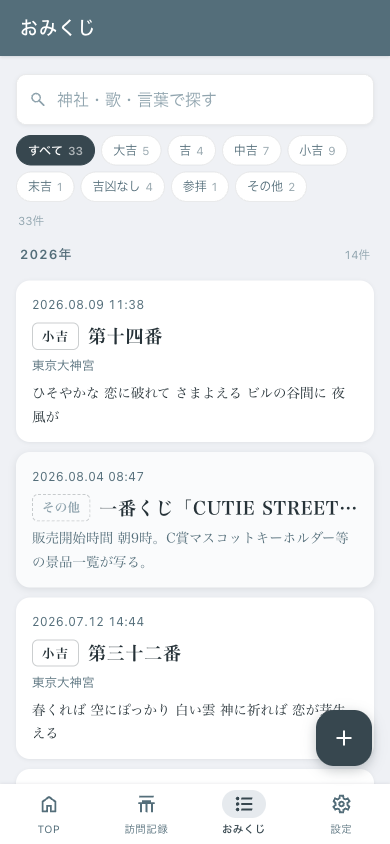
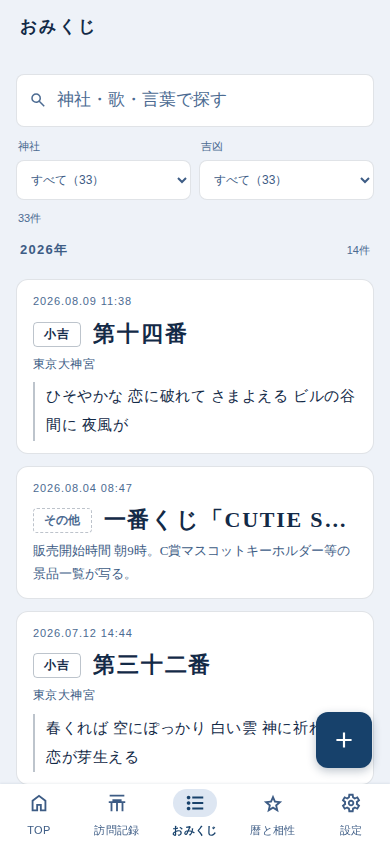
feat(omikuji): 一覧のタブ列を神社と吉凶の絞り込みに置き換える

diff --git a/omikuji/app/js/app.js b/omikuji/app/js/app.js
@@ -29,6 +29,8 @@ const $ = (id) => document.getElementById(id);
 const FILTER_VISIT = '参拝';
 const FILTER_OTHER = 'その他';
 const FILTER_NO_FORTUNE = '吉凶なし';
+/** 神社の記載がない記録をまとめる見出し。絞り込みの値としても使う。 */
+const UNKNOWN_SHRINE = '場所の記載なし';
 
 /** 書き起こし記録に重ねられる項目。日付を直したら「推定」の印も外す。 */
 const OVERRIDABLE = [
@@ -62,7 +64,8 @@ const dom = {
 
   list: $('list'), empty: $('empty'), emptyTitle: $('empty-title'),
   emptyBody: $('empty-body'), emptyReset: $('empty-reset'),
-  summary: $('summary'), search: $('search'), searchClear: $('search-clear'), chips: $('chips'),
+  summary: $('summary'), search: $('search'), searchClear: $('search-clear'),
+  filterShrine: $('filter-shrine'), filterFortune: $('filter-fortune'),
 
   detail: $('detail'), detailBody: $('detail-body'), detailClose: $('detail-close'),
   detailDelete: $('detail-delete'), detailEdit: $('detail-edit'), detailBarLabel: $('d-barlabel'),
@@ -162,7 +165,7 @@ function visibleEntries() {
   return allEntries().filter((e) => (
     matchesFilter(e, state.filter)
     && matchesQuery(e, state.query)
-    && (!state.shrine || (e.shrine || '場所の記載なし') === state.shrine)
+    && (!state.shrine || (e.shrine || UNKNOWN_SHRINE) === state.shrine)
   ));
 }
 
@@ -249,48 +252,63 @@ function countsOf(entries) {
   return c;
 }
 
-function renderChips() {
-  const entries = allEntries();
-  const counts = countsOf(entries);
+/** 神社ごとの件数。記載がないものは1つにまとめる。 */
+function shrineCountsOf(entries) {
+  const c = new Map();
+  entries.forEach((e) => {
+    const key = e.shrine || UNKNOWN_SHRINE;
+    c.set(key, (c.get(key) || 0) + 1);
+  });
+  return c;
+}
 
-  const keys = FORTUNE_ORDER.filter((f) => counts.has(f));
-  [FILTER_NO_FORTUNE, FILTER_VISIT, FILTER_OTHER].forEach((k) => { if (counts.has(k)) keys.push(k); });
+/**
+ * プルダウンの中身を組み直す。空文字を「すべて」に割り当て、state 側の null と対応させる。
+ * option は textContent で作る（本文と同じく innerHTML は使わない）。
+ */
+function fillSelect(select, current, allLabel, items) {
+  select.textContent = '';
 
-  dom.chips.textContent = '';
+  const all = document.createElement('option');
+  all.value = '';
+  all.textContent = allLabel;
+  select.appendChild(all);
 
-  if (state.shrine) {
-    const b = document.createElement('button');
-    b.type = 'button';
-    b.className = 'chip chip--shrine is-on';
-    b.textContent = state.shrine;
-    const x = document.createElement('span');
-    x.className = 'chip__x';
-    x.textContent = '✕';
-    b.appendChild(x);
-    b.setAttribute('aria-label', `${state.shrine}での絞り込みを外す`);
-    b.addEventListener('click', () => setState({ shrine: null }));
-    dom.chips.appendChild(b);
+  let found = false;
+  items.forEach(([value, count]) => {
+    const o = document.createElement('option');
+    o.value = value;
+    o.textContent = `${value}（${count}）`;
+    select.appendChild(o);
+    if (value === current) found = true;
+  });
+
+  // 絞り込んだまま最後の1件を消すと、選んでいた値が候補から消える。
+  // 黙って「すべて」に戻ると絞り込みが外れたことに気づけないので、0件として残す。
+  if (current && !found) {
+    const o = document.createElement('option');
+    o.value = current;
+    o.textContent = `${current}（0）`;
+    select.appendChild(o);
   }
 
-  const makeChip = (label, value, count) => {
-    const b = document.createElement('button');
-    b.type = 'button';
-    const on = state.filter === value;
-    b.className = 'chip' + (on ? ' is-on' : '');
-    b.setAttribute('aria-pressed', String(on));
-    b.textContent = label;
-    if (count != null) {
-      const n = document.createElement('span');
-      n.className = 'chip__n';
-      n.textContent = count;
-      b.appendChild(n);
-    }
-    b.addEventListener('click', () => setState({ filter: on ? null : value }));
-    return b;
-  };
+  select.value = current || '';
+  select.classList.toggle('is-on', Boolean(current));
+}
 
-  dom.chips.appendChild(makeChip('すべて', null, entries.length));
-  keys.forEach((k) => dom.chips.appendChild(makeChip(k, k, counts.get(k))));
+function renderFilters() {
+  const entries = allEntries();
+
+  // 多く行っている神社ほど選ぶ回数が多いので、件数の多い順に並べる。
+  const shrines = [...shrineCountsOf(entries).entries()]
+    .sort((a, b) => b[1] - a[1] || (a[0] < b[0] ? -1 : 1));
+  fillSelect(dom.filterShrine, state.shrine, `すべて（${entries.length}）`, shrines);
+
+  const counts = countsOf(entries);
+  const keys = FORTUNE_ORDER.filter((f) => counts.has(f));
+  [FILTER_NO_FORTUNE, FILTER_VISIT, FILTER_OTHER].forEach((k) => { if (counts.has(k)) keys.push(k); });
+  fillSelect(dom.filterFortune, state.filter, `すべて（${entries.length}）`,
+    keys.map((k) => [k, counts.get(k)]));
 }
 
 function renderList() {
@@ -435,7 +453,7 @@ function renderShrineSuggestions() {
 function render() {
   renderTop();
   renderVisits();
-  renderChips();
+  renderFilters();
   renderList();
   renderSettings();
   renderInstall();
@@ -455,7 +473,7 @@ function setBackgroundInert(on) {
 
 /** 訪問記録タブの各行からも、同じ寺社の一覧を開けるようにする。 */
 function shrineOf(entry) {
-  return entry.shrine || '場所の記載なし';
+  return entry.shrine || UNKNOWN_SHRINE;
 }
 
 // ---------- 詳細 ----------
@@ -1011,7 +1029,7 @@ function askDelete() {
   if (entry.type === TYPE_OMIKUJI) {
     ask({
       title: 'この記録をどうしますか',
-      body: `${formatDate(entry.date)}　${entry.shrine || '場所の記載なし'} のお参りの記録でもあります。`
+      body: `${formatDate(entry.date)}　${entry.shrine || UNKNOWN_SHRINE} のお参りの記録でもあります。`
         + `おみくじだけを消せば、お参りに行ったことは残ります。${wording.note}`,
       // builtin は配布ファイルを消せないため「隠す」だけ。文言でその差を出す
       payload: { id: entry.id },
@@ -1279,6 +1297,14 @@ function bind() {
   dom.emptyReset.addEventListener('click', () => {
     dom.search.value = '';
     setState({ query: '', filter: null, shrine: null });
+  });
+
+  // 神社と吉凶は別々に効かせる（両方選べば掛け合わせになる）
+  dom.filterShrine.addEventListener('change', () => {
+    setState({ shrine: dom.filterShrine.value || null });
+  });
+  dom.filterFortune.addEventListener('change', () => {
+    setState({ filter: dom.filterFortune.value || null });
   });
 
   dom.visitSearch.addEventListener('input', (e) => setState({ visitQuery: e.target.value.trim() }));

diff --git a/omikuji/app/styles.css b/omikuji/app/styles.css
@@ -529,23 +529,29 @@ button.cal__day:hover { background: rgba(23, 65, 107, 0.07); }
 }
 .search__clear svg { width: 100%; height: 100%; }
 
-/* 6-25 チップ。横スクロールにすると後ろのチップに気づけないので折り返す */
-.chips { display: flex; flex-wrap: wrap; gap: var(--space-2); margin-top: 10px; }
-.chip {
-  flex: 0 0 auto;
-  /* 指で押す的として最低限の高さを確保する（絞り込みは密に並ぶので幅は詰める） */
-  min-height: 36px; padding: 0 13px;
-  display: inline-flex; align-items: center;
-  background: var(--surface); border: 1px solid var(--line); border-radius: var(--r-pill);
-  color: var(--text-sub); font-size: var(--text-caption);
-  cursor: pointer; white-space: nowrap;
-  transition: background var(--dur) var(--ease), color var(--dur) var(--ease), border-color var(--dur) var(--ease);
+/* 6-25 絞り込み。神社と吉凶は別々に選べて、両方選べば掛け合わせになる。
+   選択肢が増えても背が伸びないよう、並べるのではなくプルダウンにしている */
+.filters__row { display: flex; gap: var(--space-2); margin-top: 10px; }
+.filter { flex: 1 1 0; min-width: 0; display: flex; flex-direction: column; gap: var(--space-1); }
+.filter__label {
+  padding-left: 2px;
+  font-size: var(--text-caption-2); color: var(--text-weak);
 }
-.chip:hover { border-color: var(--line-str); }
-.chip.is-on { background: var(--primary); border-color: var(--primary); color: #fff; font-weight: 600; }
-.chip__n { opacity: 0.6; margin-left: 5px; font-size: var(--text-caption-2); }
-.chip--shrine { background: var(--bar); border-color: var(--bar); }
-.chip__x { margin-left: 6px; font-size: var(--text-caption-2); opacity: .8; }
+.filter select {
+  width: 100%; min-width: 0;
+  /* 指で押す的として最低限の高さを確保する */
+  min-height: 40px; padding: 0 10px;
+  background: var(--surface); border: 1px solid var(--line); border-radius: var(--r-2);
+  color: var(--text-sub); font-family: inherit; font-size: var(--text-caption);
+  outline: none; cursor: pointer;
+  transition: border-color var(--dur) var(--ease), color var(--dur) var(--ease);
+}
+.filter select:hover { border-color: var(--line-str); }
+.filter select:focus { border-color: var(--bar); box-shadow: 0 0 0 3px rgba(27, 75, 122, 0.16); }
+/* 絞り込み中。地を反転させると、OS が描く矢印との明暗が読めなくなるので枠と文字で示す */
+.filter select.is-on {
+  border-color: var(--primary); color: var(--primary); font-weight: 600;
+}
 
 .filters__count {
   margin: 9px 2px 0; font-size: var(--text-caption-2); color: var(--text-weak);

diff --git a/omikuji/app/index.html b/omikuji/app/index.html
@@ -121,7 +121,16 @@
         <svg aria-hidden="true"><use href="#i-close"/></svg>
       </button>
     </div>
-    <div class="chips" id="chips" role="group" aria-label="絞り込み"></div>
+    <div class="filters__row" role="group" aria-label="絞り込み">
+      <label class="filter">
+        <span class="filter__label">神社</span>
+        <select id="filter-shrine"></select>
+      </label>
+      <label class="filter">
+        <span class="filter__label">吉凶</span>
+        <select id="filter-fortune"></select>
+      </label>
+    </div>
     <p class="filters__count" id="summary"></p>
   </div>
 

diff --git a/omikuji/app/sw.js b/omikuji/app/sw.js
@@ -5,7 +5,7 @@
  * 画面の骨格も記録も最初にまとめて取りに行き、以後は通信なしで読める。
  */
 
-const VERSION = 'v8';
+const VERSION = 'v9';
 const SHELL = `omikuji-shell-${VERSION}`;
 
 const SHELL_FILES = [
